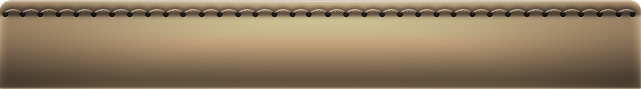
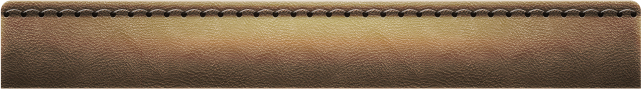
Finished custom button look... so sexy

diff --git a/styles/handlers.rb b/styles/handlers.rb
@@ -3,3 +3,9 @@ Teacup.handler UIView, :nav_background { |image|
   # use UIImage.imageNamed if you aren't using sugarcube
   UINavigationBar.appearance.setBackgroundImage(image.uiimage, forBarMetrics:UIBarMetricsDefault)
 }
+
+Teacup.handler UIRoundedRectButton, :button_background { |view, image, text_color|
+  text_color ||= UIColor.whiteColor
+  view.setBackgroundImage(image.uiimage, forState:UIControlStateNormal)
+  view.setTitleColor(text_color, forState:UIControlStateNormal)
+}

diff --git a/styles/iphone.rb b/styles/iphone.rb
@@ -26,6 +26,9 @@ Teacup::Stylesheet.new(:iphone) do
     }
 
   style :custom_button,
-    frame: [[0,310],[292,42]],
-    title: "Custom"
+    frame: [[15,310],[292,42]],
+    textColor: UIColor.whiteColor,
+    title: "Custom",
+    button_background: 'large_button',
+    backgroundColor: UIColor.clearColor
 end
